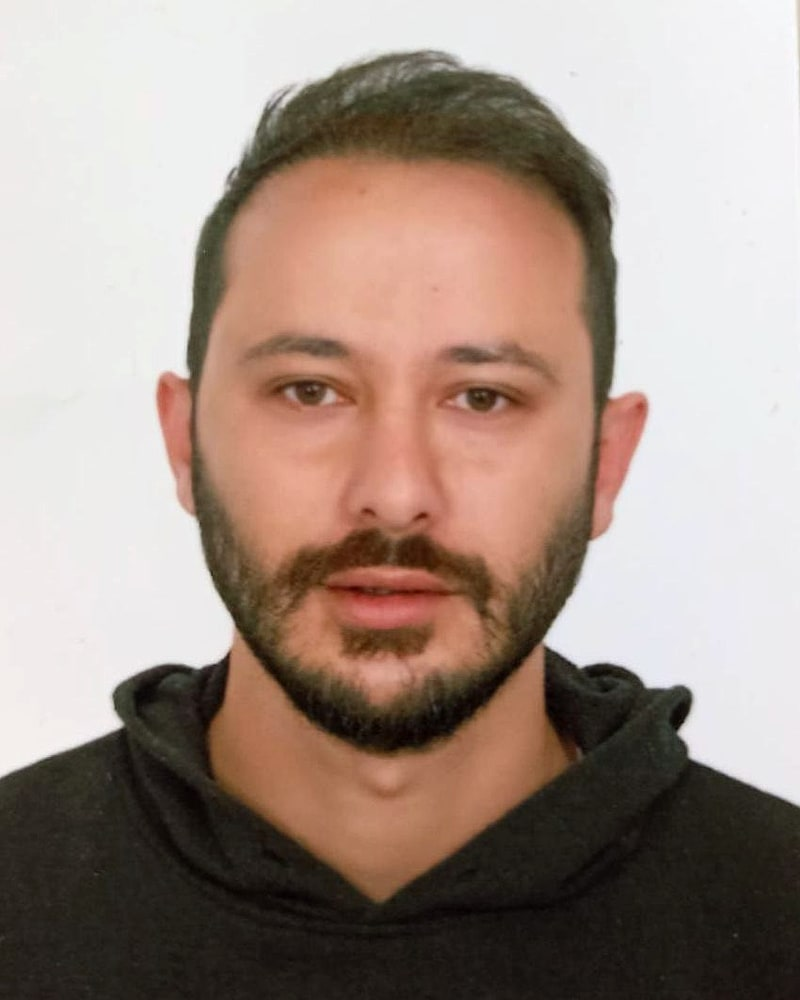
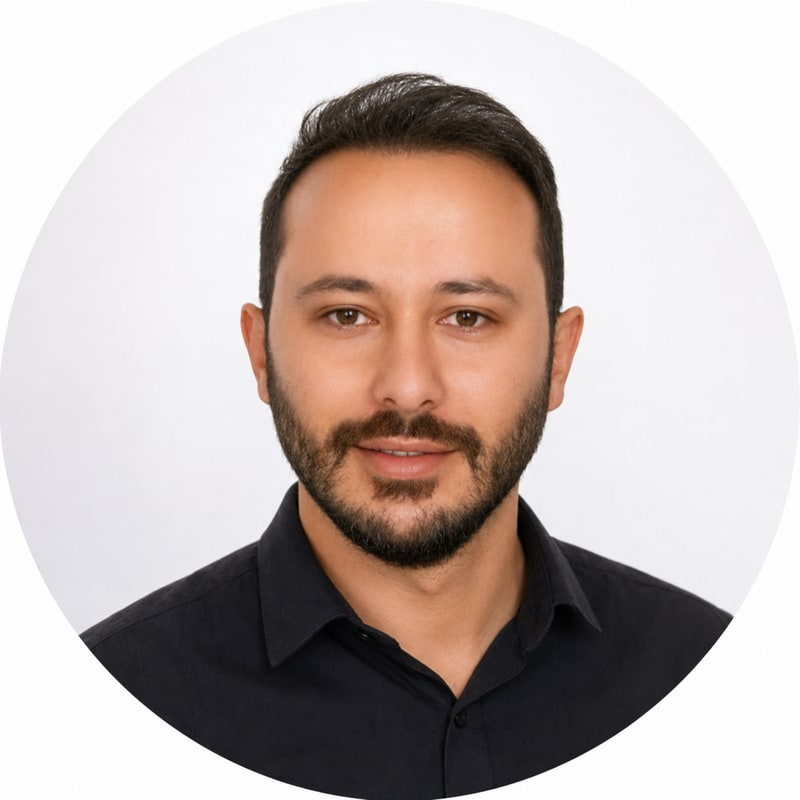
Use new instructor portrait in a circular frame
Portre dairesel maskeyle üretilmiş kare bir görsel; kare çerçevede beyaz
köşeler oluşturuyordu. Daire kareye tam oturduğu için (dört kenara değiyor)
çerçeve de dairesel yapıldı, kenarlar birebir hizalanıyor.

800x800, 44 KB.

diff --git a/app/egitmen/page.tsx b/app/egitmen/page.tsx
@@ -100,15 +100,17 @@ export default function EgitmenPage() {
       <main className="overflow-x-hidden bg-[#fbf7f0] text-[#12142b]">
         {/* ---------- TANITIM ---------- */}
         <section className="px-5 pb-16 pt-14 sm:px-8 sm:pb-20 sm:pt-20">
-          <div className="mx-auto grid max-w-5xl items-center gap-10 md:grid-cols-[320px_1fr] md:gap-14">
-            <div className="mx-auto w-full max-w-[320px]">
-              <div className="relative aspect-[4/5] overflow-hidden rounded-[28px] border border-black/10 bg-[#eaf4f3] shadow-[0_28px_70px_-38px_rgba(18,20,43,0.55)]">
+          <div className="mx-auto grid max-w-5xl items-center gap-10 md:grid-cols-[300px_1fr] md:gap-14">
+            {/* Portre dairesel maskeyle üretildi; çerçeve de dairesel olunca
+                kenarlar birebir hizalanıyor. */}
+            <div className="mx-auto w-full max-w-[300px]">
+              <div className="relative aspect-square overflow-hidden rounded-full ring-1 ring-black/10 shadow-[0_28px_70px_-38px_rgba(18,20,43,0.55)]">
                 <Image
                   src={PHOTO}
                   alt={`${INSTRUCTOR_NAME}, İdil Hızlı Okuma eğitmeni`}
                   fill
                   priority
-                  sizes="(max-width: 768px) 320px, 320px"
+                  sizes="300px"
                   className="object-cover"
                 />
               </div>
